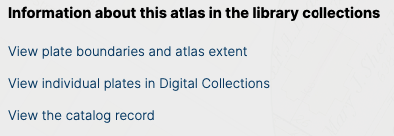
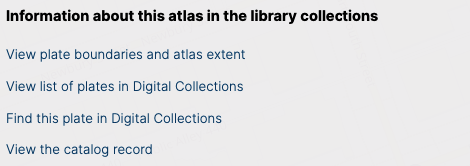
updated sharing & collections pages w current info

diff --git a/index.html b/index.html
@@ -12,7 +12,7 @@
 </script>
   <meta charset="UTF-8">
   <meta http-equiv="X-UA-Compatible" content="IE=edge,chrome=1" />
-  <meta name="description" content="Guides, tutorials & wikis documenting the geospatial activities of the Leventhal Map & Education Center at the Boston Public Library">
+  <meta name="description" content="Guides & tutorials documenting the geospatial activities of the Leventhal Map & Education Center at the Boston Public Library">
   <meta name="viewport" content="width=device-width, user-scalable=no, initial-scale=1.0, maximum-scale=1.0, minimum-scale=1.0">
   <link rel="stylesheet" href="//unpkg.com/docsify/lib/themes/buble.css">
 </head>

diff --git a/discovery-tools/atlascope.md b/discovery-tools/atlascope.md
@@ -1,19 +1,23 @@
-# Introduction
+## Welcome
 
-## Context
+Welcome to the user guide for [Atlascope](https://atlascope.leventhalmap.org/ "Atlascope"), a web app for browsing and researching with the rich collection of urban atlases held at the Boston Public Library. 
 
-[ATLASCOPE](https://atlascope.leventhalmap.org/ "ATLASCOPE") is a web app for exploring and browsing the rich collection of urban atlases held at the Boston Public Library.
 
-For researching urban history in the US, **urban atlases**, like the ones that were produced for fire insurance surveys, are some of the most important resources. But because these atlases are physically clumsy, and broken up page-by-page into areas covering usually only a few city blocks, it’s not always easy to find what you’re looking for, and even more difficult to compare across time.
+<iframe width="400" height="550" src="https://atlascope.leventhalmap.org/#view:embed$base:001$overlay:39999059011690$zoom:18.00$center:-7912348.885480463,5213458.735922582$mode:glass$pos:145"></iframe>
 
-Thanks to a grant from the [Council on Library and Information Resources](https://www.clir.org/ "CLIR"), we’ve been taking our urban atlases and transforming them into continuous, zoomable web layers. That takes a ton of hand labor identifying control points and mosaicing the pages together at their boundaries, a process which our interns have been taking on with great zeal. (for more on how this process works, please find our [Creating atlas tiles guide.](https://geoservices.leventhalmap.org/docs/#/atlascope/creating/introduction "Creating atlas tiles guides")
 
-On top of that GIS work, we’ve built a brand new web interface which automatically pulls up the atlases which cover an area you’re interested in. Atlascope allows you to compare historic atlases to one another and to modern maps, and then find the original items in the library collections. It’s an amazing resource for anyone interested in exploring how Boston has changed over time.
+For researching urban history in the US, **urban atlases**, like the ones produced for fire insurance surveys, are some of the most important resources. But because these atlases are physically clumsy, and broken up page-by-page into areas covering usually only a few city blocks, it’s not always easy to find what you’re looking for, and even more difficult to compare across time.
+
+Thanks to a grant from the [Council on Library and Information Resources](https://www.clir.org/ "CLIR"), the Leventhal Map & Education Center has been taking our urban atlases and transforming them into continuous, zoomable web layers. 
+
+Doing so takes a ton of hand labor identifying control points and mosaicing the pages together at their boundaries, a process which our interns have been taking on with great zeal. (If you work with these resources and are looking to replicate this process, please find our [Create Mosaics How-to Guide](http://geoservices.leventhalmap.org/#/how-to/create-mosaics "Create Mosaics How-to Guide") )
+
+On top of this GIS work, we’ve built a brand new web interface which automatically pulls up the atlases which cover an area you’re interested in. Atlascope allows you to compare historic atlases to one another and to modern maps, and then find the original items in the library collections. It’s an amazing resource for anyone interested in exploring how Boston has changed over time.
 
 This guide will walk through some of the ways Atlascope can help you use the urban atlas collection at the Boston Public Library.
 
 
-## Credits
+## Credits {docsify-ignore}
 
 Atlascope was developed at the Leventhal Map & Education Center at the Boston Public Library by Garrett Dash Nelson and Belle Lipton. Atlas layers were prepared by a team of interns including Ian Donnelly, Hanaan Yazdi, Abby Duker, Rachel Mead, Luwei Chen, Brian Kominick, Madison Bastress, Liz Kellam, Victoria Mak and Samantha Carr.
 
@@ -24,35 +28,27 @@ If you use these maps in your work, teaching, or publication, please cite Atlasc
 Interested in creating an Atlascope for your own city or library collection? Contact us for more information.
 
 
-## Finding atlases by location
+## Search by location
 
 
 ### Dynamic menus {docsify-ignore}
 
 Each historical atlas included in the project has a different geographic coverage. This is because the atlases were created for different towns and areas, at a time when the urban landscape was developing rapidly. For these reasons, no two atlases in our collection have exactly the same geographic extent.
 
-Rather than limit browsing to a selection from a long list of atlas layers, our product allows you to find layers based on where you are on the map.
 
+When using Atlascope, you can pan and zoom around the map, and Atlascope will automatically find all historical layers that are available for that particular location.
 
-The app has been designed so that you can pan and zoom around a modern street map or satellite imagery, and the app will automatically find all historical layers that are available for that particular location.
-
-!> **As you move** around the map, the dropdown menus with available **atlas layers will change** and update to reflect what is available for that area.
+!> **As you move** around the map, the dropdown **menus** with available atlas layers **will change** and update to reflect what is available for that area.
 
 ![menu](/media/gifs/menu.gif)
 
+
 As you move out of the range of one atlas, the app will automatically suggest the oldest atlas layer available for the new map location.
 
-### Atlases available {docsify-ignore}
 
-There are some handy indicators built in to let you know how many atlas layers are currently available to you at the particular location you are interacting with.
+## Find me 
 
-On the right-hand side of the menu, please find an icon alert with the number of available atlas layers for any location.
-
-![available](/media/img/number-available.png)
-
-### Find me tool {docsify-ignore}
-
-This app works well on a mobile device.
+Atlascope was designed to be used on-the-go!
 
 From the Atlascope home screen, select `Find me` to find your current location and return historical atlas layers available for that location.
 
@@ -68,7 +64,7 @@ If you would like to find your location initially as a point of reference, and t
 > You will need to enable location services on your device for the Find me tool to work. The Leventhal Map & Education Center does not record any of the location data; location services are required only to enable the Find me tool to work as you explore the city.
 
 
-### All atlases in app {docsify-ignore}
+## All available layers
 
 To access a list of all atlases available in the app, please follow the steps below.
 
@@ -89,7 +85,7 @@ Selecting one of the list options will turn tiles on for that layer.
 Atlascope includes a selection of the town, county and urban atlases available at the Boston Public Library. To learn more about the full research collection, please find the [All urban atlases @ the BPL guide.](https://geoservices.leventhalmap.org/docs/#/atlascope/using/all-atlases "All atlases @ BPL")
 
 
-## Finding atlases by address
+## Search by address
 
 There are two ways to search for atlases using a modern day address.
 
@@ -116,7 +112,7 @@ There are a few different tools available in the app to compare historical atlas
 
 You can control the overlay appearance by switching between Glass, Swipe, or Opacity modes.
 
-### Glass {docsify-ignore}
+### Glass 
 
 The default overlay mode in the app is the `Glass mode`, named so for its resemblance to a spyglass.
 
@@ -130,7 +126,7 @@ Glass mode can be activated at any time by selecting "Glass" from the app menu c
 
 ![glass](/media/img/glass.png)
 
-### Swipe {docsify-ignore}
+### Swipe 
 
 Another mode available is `Swipe mode`.
 
@@ -140,7 +136,7 @@ You can change the direction of the swipe by toggling between `Swipe Y` and `Swi
 
 
 
-### Opacity {docsify-ignore}
+### Opacity 
 
 The final available overlay mode is `Opacity mode`.
 
@@ -152,7 +148,7 @@ In addition to using the range slider to gradually increase or decrease opacity,
 
 
 
-### Change over time {docsify-ignore}
+## Change over time 
 
 
 Try setting both the base and overlay layers to historic atlases. What comparisons can you make that show how the city has changed?
@@ -176,20 +172,24 @@ In `Opacity mode`
 
 ## Sharing
 
-Coming soon! 
+To share a link to the whole app, or a specific view/location, following these steps:
+
+1. Click the Share button in the upper-right hand corner
+![share](/media/img/share.png)
+
+2. Select the appropriate share option <br><br>
+![share](/media/img/share-options.png)
 
 
-## Use with collections
-
-### Context {docsify-ignore}
+## Get the maps
 
 While using mosaiced atlas layers inside the Atlascope app is an intuitive way to access the materials, we understand there will certainly be cases where you wish to access high-resolution scans of individual atlas plates, and thus will need to be able to locate these unique items in our [digital collections](https://collections.leventhalmap.org/ "Digital collections").
 
-Or maybe, you even wish to visit the Map Center, and [research](https://www.leventhalmap.org/research/ "Research @ LMEC") with particular atlas plates in person!
+Or maybe, you even wish to visit the Map Center, and [research](https://www.leventhalmap.org/research/ "Research @ LMEC") with particular atlas pages in person!
 
-For these reasons, we have designed Atlascope to work symbiotically with our traditional library interfaces, specifically our digital collections and collection-level research guides for the historical urban atlas collection.
+For these reasons, Atlascope works symbiotically with our traditional library interfaces, specifically our digital collections and collection-level research guides for the historical urban atlas collection.
 
-In this guide you will learn how to use Atlascope to quickly find atlas plates in the digital collections.
+In this guide you will learn how to use Atlascope to quickly find atlas plates in the digital collections, download high-resolution images of the maps, and grab the map's citations.
 
 ### Steps {docsify-ignore}
 
@@ -203,31 +203,32 @@ In this guide you will learn how to use Atlascope to quickly find atlas plates i
 
 ![About this map](/media/img/about-this-map.png)
 
-Here, you will find bibliographic information about the volume, and will be presented with three options for finding this resource in the library collections.
+Here, you will find bibliographic information about the volume, and will be presented with options for finding this resource in the library collections.
 
 ![collections options](/media/img/lib-options.png)
 
-`View the catalog record` will bring you to the item record in the Boston Public Library's digital catalog.
-
-`View individual plates in the Digital Collections` will bring you to a query in the digital collections returning all results for plates associated with that volume's call number. This will essentially be a gallery of thumbnails. You will still need to page through the results to find the plate with the location of interest.
-
-5). The most useful option is to select `View plate boundaries and atlas extent`.
-
-Here, you will find tiles for only the volume at hand, and plate extent boundaries.
+**View plate boundaries and atlas extent** will take you to a page with only the layer for that atlas, and an outline showing each page in the atlas. Each blue/green shape corresponds with one page in that historical book, which is available to research with in person at the Map Center. 
 
 ![extent](/media/img/extent.png)
 
-6). Zoom in to the area of interest and click on the map.
-
-A pop-up will appear with bibliographic information, including a link to the item in the digital collections.
+When you click on a shape, a popup will tell you more biliographic information, including the collections identifier # for that page in our digital collections, and a link to the item.
 
 ![popup](/media/img/popup.png)
 
-7). Click `View in Digital Collections`
 
-You will be brought to the item in the digital collections.
 
-![digital collections](/media/img/dc.png)
+**View list of plates in the Digital Collections** will bring you to a query in the digital collections returning all results for plates associated with that volume's call number. This will essentially be a gallery of thumbnails. You will still need to page through the results to find the plate with the location of interest.
+
+*Hint:* This is a great way to find the index page for any atlas, which includes a symbology key. Each publisher uses different colors and markings to indicated different factors, so the index page legend can be helpful, and is available in the digital collections.
+
+
+**Find this plate in the Digital Collections** will bring you to a page with only that atlas layer again, but this time, zoomed in on the area you had been engaging with in the app.
+
+Click on the exact location you are looking for, and from the resulting popup, click "View in Digital Collections"
+
+![find-this-plate](/media/gifs/dc.gif)
+
+
 
 - To download a high-resolution scan, navigate to `Downloads` and select `Master (full resolution, uncompressed)`
 
@@ -242,15 +243,14 @@ You will be brought to the item in the digital collections.
 
 
 
-## All urban atlases at the BPL
+## All atlases @ BPL
 
-### Overview {docsify-ignore}
 
 While Atlascope includes an amazing number of atlases from the BPL collections covering Boston and surrounding towns, it does not include a significant portion of atlases available for research at the BPL.
 
 **Atlases not included in Atlascope**
 
-- Atlases outside of Boston Proper for most towns in Massachusetts.
+- Atlases outside of Boston Proper for most towns in Massachusetts - *coming soon!*
 
 - Atlases published after 1923 where rights are still retained by the copyright owner. This includes most of the twentieth-century Sanborns.
 
@@ -265,13 +265,21 @@ Though you cannot access these important archives in the app or digital collecti
 
 1). Navigate to the [Historical Urban Atlases of Boston Libguide.](https://guides.bpl.org/urban-atlases "Urban Atlas Libguide")
 
-This guide provides information about all atlases of Boston available at the BPL.
 
 2). To find a list of citations organized by neighborhood and chronology, select `List of Urban Atlases`.
 
-![List](/media/img/list-atlases.png)
 
-3). In the **Related Resources** tab on the left, select `Historical Urban Atlases of Massachusetts Towns @ the BPL`.
+3). To find all Boston urban atlases available for research **by location** click the `Find by Map` tab on the libguides. Atlases are grouped by neighborhood. Selecting an atlas from one of the neighborhood maps will tell you if that particular publisher/year has been added to Atlascope yet. 
+
+If it *has* we recommend using Atlascope to explore, as it is easier. If it has not yet been added, selecting that layer will prompt a boundary layer to appear, so you can still get information about a plate, or find a specific location in the digital collections.
+
+![libguides](/media/gifs/libguides.gif)
+
+
+
+
+
+If you are looking for towns outside of Boston, from the guides.bpl.org/urban-atlases page, navigate to **Related Resources** tab on the left, select `Historical Urban Atlases of Massachusetts Towns @ the BPL`.
 
 ![Towns](/media/img/towns.png)
 
@@ -280,11 +288,12 @@ This will bring you to a complete listing of historical town atlases available f
 For questions related to researching with the BPL holdings, please do not hesitate to get in touch via our [research form](https://www.leventhalmap.org/research/ "Research @ LMEC") or via email at reference@leventhalmap.org. 
 
 
-## Using tiles
+## Mosaic links
 
-One of the benefits of creating high-quality tiles for this project, is the ability to share them with you!
+We think one of the coolest aspects of creating high-resolution tiled mosaic layers of each atlas is our ability to share them with you.
 
-We are excited to share the app we have created for exploring these atlases, but we also encourage you to try using these atlas tiles in projects of your own.
+This section of the guide will give instructions on how to bring in the mosaic of any atlas in Atlascope to your own GIS project. 
+
 
 The tiles for each volume are accessible by selecting `About this map` and then copying the link under `XYZ Tile Endpoint`
 

diff --git a/discovery-tools/_sidebar.md b/discovery-tools/_sidebar.md
@@ -1,3 +1,3 @@
 - [Home](/ "Discovery Tools Guide") 
 - **<span style="color:purple">DISCOVERY TOOL GUIDES</span>**
-  - [Atlascope User Manual](/discovery-tools/atlascope.md "ATLASCOPE USER MANUAL")
+  - [Atlascope User Manual](/discovery-tools/atlascope.md "Atlascope User Manual")

diff --git a/_sidebar.md b/_sidebar.md
@@ -1,4 +1,4 @@
-- [Home](/ "LMEC DOCS") 
+- [Home](/ "Geospatial @ LMEC") 
 - **<span style="color:purple">Guides</span>**
   - [How to](/how-to/ "How To Guides")
   - [Data](/data/ "Data help @ LMEC")
